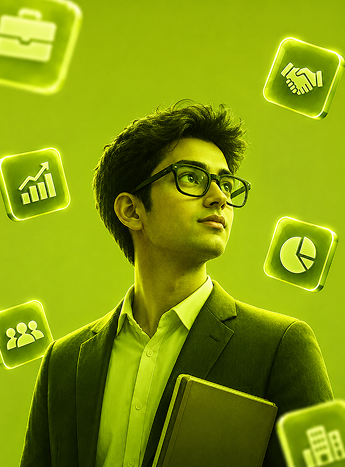
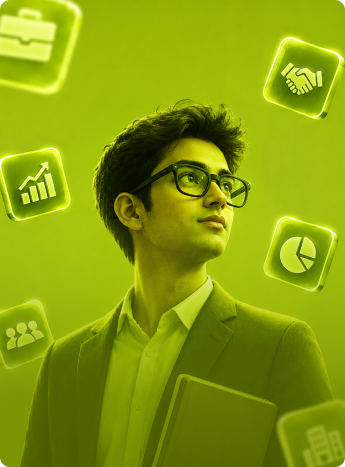
check

diff --git a/components/home/CtaSection.tsx b/components/home/CtaSection.tsx
@@ -6,66 +6,54 @@ import Link from "next/link";
 
 export default function CtaSection() {
   return (
-    <section className="relative overflow-hidden bg-gradient-to-r from-[#6320EE] via-[#713FFF] to-[#8B5CF6] py-16 md:py-24 text-white" id="cta">
-      {/* Decorative ambient elements */}
-      <div 
-        className="pointer-events-none absolute -left-20 top-0 h-[450px] w-[450px] rounded-full bg-white/10 blur-3xl" 
-        aria-hidden="true" 
-      />
-      <div 
-        className="pointer-events-none absolute -right-20 bottom-0 h-[450px] w-[450px] rounded-full bg-black/20 blur-3xl" 
-        aria-hidden="true" 
-      />
+    <section className="relative overflow-hidden bg-[#6320EE] min-h-[520px] lg:min-h-[580px] flex items-center py-16 text-white" id="cta">
+      {/* 1. Full CTA Background Artwork */}
+      <div className="absolute inset-0 z-0 pointer-events-none">
+        <Image
+          src="/images/cta-illustration.png"
+          alt="SkillReady future-ready careers background"
+          fill
+          className="object-cover object-right lg:object-center opacity-95"
+          sizes="100vw"
+        />
+        {/* Subtle gradient for mobile readability */}
+        <div className="absolute inset-0 bg-gradient-to-r from-[#6320EE]/95 via-[#6320EE]/70 to-transparent lg:hidden pointer-events-none" />
+      </div>
 
+      {/* 2. Left Content & Action Buttons */}
       <div className="wrap relative z-10">
-        <div className="grid grid-cols-1 lg:grid-cols-12 gap-10 items-center">
-          {/* Left: Content & Action Buttons */}
-          <div className="lg:col-span-6 flex flex-col items-start gap-6">
-            <h2 className="text-[38px] sm:text-[48px] lg:text-[54px] font-bold text-white tracking-tight leading-[1.08]">
-              Are you Skill Ready <br />
-              for the future?
-            </h2>
+        <div className="max-w-[520px] flex flex-col items-start gap-6">
+          <h2 className="text-[38px] sm:text-[48px] lg:text-[54px] font-bold text-white tracking-tight leading-[1.08]">
+            Are you Skill Ready <br />
+            for the future?
+          </h2>
 
-            <p className="text-[16px] sm:text-[18px] text-white/85 leading-relaxed max-w-[500px]">
-              Whether you&apos;re a student, college or company, SkillReady helps you move forward with confidence.
-            </p>
+          <p className="text-[16px] sm:text-[18px] text-white/90 leading-relaxed max-w-[480px]">
+            Whether you&apos;re a student, college or company, SkillReady helps you move forward with confidence.
+          </p>
 
-            <div className="flex items-center gap-3 flex-wrap pt-2">
-              <Link
-                href="/students"
-                className="inline-flex items-center gap-1.5 bg-black hover:bg-[#1C1C1C] text-white text-[14px] font-medium px-5 py-2.5 rounded-[10px] transition-all duration-150 active:scale-95 shadow-md"
-              >
-                <span>Students</span>
-                <span aria-hidden="true" className="text-sm">→</span>
-              </Link>
-              <Link
-                href="/colleges"
-                className="inline-flex items-center gap-1.5 bg-black hover:bg-[#1C1C1C] text-white text-[14px] font-medium px-5 py-2.5 rounded-[10px] transition-all duration-150 active:scale-95 shadow-md"
-              >
-                <span>Colleges</span>
-                <span aria-hidden="true" className="text-sm">→</span>
-              </Link>
-              <Link
-                href="/companies"
-                className="inline-flex items-center gap-1.5 bg-black hover:bg-[#1C1C1C] text-white text-[14px] font-medium px-5 py-2.5 rounded-[10px] transition-all duration-150 active:scale-95 shadow-md"
-              >
-                <span>Companies</span>
-                <span aria-hidden="true" className="text-sm">→</span>
-              </Link>
-            </div>
-          </div>
-
-          {/* Right: 3D Visual Illustration */}
-          <div className="lg:col-span-6 relative flex justify-center items-center">
-            <div className="relative w-full max-w-[520px] aspect-[4/3]">
-              <Image
-                src="/images/hero-illustration.png"
-                alt="SkillReady future-ready careers"
-                fill
-                className="object-contain drop-shadow-2xl"
-                sizes="(max-width: 1024px) 100vw, 520px"
-              />
-            </div>
+          <div className="flex items-center gap-3 flex-wrap pt-2">
+            <Link
+              href="/students"
+              className="inline-flex items-center gap-1.5 bg-black hover:bg-[#1C1C1C] text-white text-[14px] font-medium px-5 py-2.5 rounded-full transition-all duration-150 active:scale-95 shadow-md"
+            >
+              <span>Students</span>
+              <span aria-hidden="true" className="text-sm">→</span>
+            </Link>
+            <Link
+              href="/colleges"
+              className="inline-flex items-center gap-1.5 bg-black hover:bg-[#1C1C1C] text-white text-[14px] font-medium px-5 py-2.5 rounded-full transition-all duration-150 active:scale-95 shadow-md"
+            >
+              <span>Colleges</span>
+              <span aria-hidden="true" className="text-sm">→</span>
+            </Link>
+            <Link
+              href="/companies"
+              className="inline-flex items-center gap-1.5 bg-black hover:bg-[#1C1C1C] text-white text-[14px] font-medium px-5 py-2.5 rounded-full transition-all duration-150 active:scale-95 shadow-md"
+            >
+              <span>Companies</span>
+              <span aria-hidden="true" className="text-sm">→</span>
+            </Link>
           </div>
         </div>
       </div>

diff --git a/components/home/HeroSection.tsx b/components/home/HeroSection.tsx
@@ -7,59 +7,48 @@ import { Logo } from "@/components/layout/Logo";
 
 export default function HeroSection() {
   return (
-    <section className="relative overflow-hidden bg-gradient-to-b from-[#FAF0FA] via-[#F5EFFE] to-[#F1E9FD] pt-12 pb-14 md:pt-20 md:pb-20">
-      {/* Decorative ambient background glows */}
-      <div
-        className="pointer-events-none absolute -right-20 top-0 h-[600px] w-[600px] rounded-full bg-radial from-[#C9A6FF]/35 to-transparent blur-3xl"
-        aria-hidden="true"
-      />
-      <div
-        className="pointer-events-none absolute -left-20 bottom-10 h-[450px] w-[450px] rounded-full bg-radial from-[#DCC7FF]/30 to-transparent blur-3xl"
-        aria-hidden="true"
-      />
+    <section className="relative overflow-hidden bg-[#FBF9FF] min-h-[720px] lg:min-h-[780px] flex flex-col justify-between pt-10 pb-12 sm:pb-16">
+      {/* 1. Full Hero Background Artwork spanning the entire section */}
+      <div className="absolute inset-0 z-0 pointer-events-none">
+        <Image
+          src="/images/hero-bg.png"
+          alt="SkillReady learning and employment ecosystem background"
+          fill
+          priority
+          className="object-cover object-right-top lg:object-center opacity-95"
+          sizes="100vw"
+        />
+        {/* Soft gradient blend for mobile readability */}
+        <div className="absolute inset-0 bg-gradient-to-r from-white/90 via-white/40 to-transparent lg:hidden pointer-events-none" />
+      </div>
 
-      <div className="wrap relative z-10">
-        {/* Main 2-Column Hero Grid */}
-        <div className="grid grid-cols-1 lg:grid-cols-12 gap-10 items-center">
-          {/* Left Column: Text & Content */}
-          <div className="lg:col-span-6 flex flex-col items-start gap-5">
-            {/* Top Pill Badge */}
-            <div className="inline-flex items-center gap-2 rounded-[10px] border border-black/15 bg-white/70 backdrop-blur-sm px-4 py-1.5 text-[13px] font-medium text-black shadow-xs">
-              <span>Welcome Onboard</span>
-            </div>
-
-            {/* Main Headline */}
-            <h1 className="text-[40px] sm:text-[50px] lg:text-[56px] font-bold tracking-tight text-black leading-[1.08]">
-              The Bridge <br />
-              Between Learning <br />
-              and Employment
-            </h1>
-
-            {/* Subtext */}
-            <p className="text-[16px] sm:text-[18px] text-[#4C4C58] leading-relaxed max-w-[500px]">
-              SkillReady connects students, colleges, and companies through a
-              structured ecosystem that transforms career aspirations into real
-              opportunities.
-            </p>
+      {/* 2. Main Hero Content (Overlayed on left side) */}
+      <div className="wrap relative z-10 pt-8 sm:pt-12 lg:pt-16">
+        <div className="max-w-[540px] flex flex-col items-start gap-5 sm:gap-6">
+          {/* Top Pill Badge */}
+          <div className="inline-flex items-center gap-2 rounded-full border border-black/15 bg-white/70 backdrop-blur-sm px-4 py-1.5 text-[13px] font-medium text-black shadow-xs">
+            <span>Welcome Onboard</span>
           </div>
 
-          {/* Right Column: 3D Visual Illustration */}
-          <div className="lg:col-span-6 relative flex justify-center items-center">
-            <div className="relative w-full max-w-[560px] aspect-[4/3] sm:aspect-[1.15/1]">
-              <Image
-                src="/images/hero-illustration.png"
-                alt="SkillReady learning and employment ecosystem"
-                fill
-                priority
-                className="object-contain drop-shadow-xl"
-                sizes="(max-width: 1024px) 100vw, 560px"
-              />
-            </div>
-          </div>
+          {/* Main Headline */}
+          <h1 className="text-[42px] sm:text-[52px] lg:text-[56px] font-bold tracking-tight text-black leading-[1.08]">
+            The Bridge <br />
+            Between Learning <br />
+            and Employment
+          </h1>
+
+          {/* Subtitle */}
+          <p className="text-[16px] sm:text-[18px] text-[#4C4C58] leading-relaxed max-w-[480px]">
+            SkillReady connects students, colleges, and companies through a
+            structured ecosystem that transforms career aspirations into real
+            opportunities.
+          </p>
         </div>
+      </div>
 
-        {/* Bottom Floating Action Bar */}
-        <div className="mt-14 sm:mt-16 bg-white/95 backdrop-blur-md rounded-2xl md:rounded-full border border-[#E8E4F0] p-4 sm:p-5 md:px-8 shadow-sm flex flex-col md:flex-row items-center justify-between gap-5">
+      {/* 3. Bottom Floating Action Bar */}
+      <div className="wrap relative z-10 mt-14 sm:mt-20">
+        <div className="flex flex-col md:flex-row items-center justify-between gap-5">
           {/* Left: Star Mark & Core Value Statement */}
           <div className="flex items-center gap-4 text-left w-full md:w-auto">
             <Logo className="text-[#713FFF] w-10 h-10 flex-none" />

diff --git a/components/home/HowItWorksSection.tsx b/components/home/HowItWorksSection.tsx
@@ -22,7 +22,7 @@ const STEPS_DATA = [
 
 export default function HowItWorksSection() {
   return (
-    <section className="py-20 md:py-28 bg-[#FAFAFC]">
+    <section className="py-20 md:py-28 bg-[#F2EEFD]">
       <div className="wrap">
         {/* Section Header */}
         <div className="flex flex-col items-center text-center max-w-[760px] mx-auto mb-14 md:mb-18">
@@ -36,7 +36,8 @@ export default function HowItWorksSection() {
           </h2>
 
           <p className="text-[16px] sm:text-[18px] text-[#4C4C58] leading-relaxed max-w-[620px]">
-            Students receive structured guidance that helps them understand exactly how to become job ready.
+            Students receive structured guidance that helps them understand
+            exactly how to become job ready.
           </p>
         </div>
 
@@ -61,7 +62,9 @@ export default function HowItWorksSection() {
                     <React.Fragment key={idx}>
                       <span>{step}</span>
                       {idx < row.flow.length - 1 && (
-                        <span className="text-[#713FFF] font-normal text-lg">→</span>
+                        <span className="text-[#713FFF] font-normal text-lg">
+                          →
+                        </span>
                       )}
                     </React.Fragment>
                   ))}

diff --git a/components/home/FeaturedOfferingsSection.tsx b/components/home/FeaturedOfferingsSection.tsx
@@ -87,7 +87,7 @@ export default function FeaturedOfferingsSection() {
               className="bg-white rounded-2xl border border-[#E8E4F0] p-7 sm:p-8 flex flex-col items-start gap-4 transition-all duration-200 hover:shadow-md hover:border-[#DCD2F5]"
             >
               {/* Icon Badge */}
-              <div className="w-10 h-10 rounded-xl bg-[#713FFF] flex items-center justify-center shadow-xs flex-none">
+              <div className="w-10 h-10 rounded-full bg-[#713FFF] flex items-center justify-center shadow-xs flex-none">
                 {item.icon}
               </div>
 
